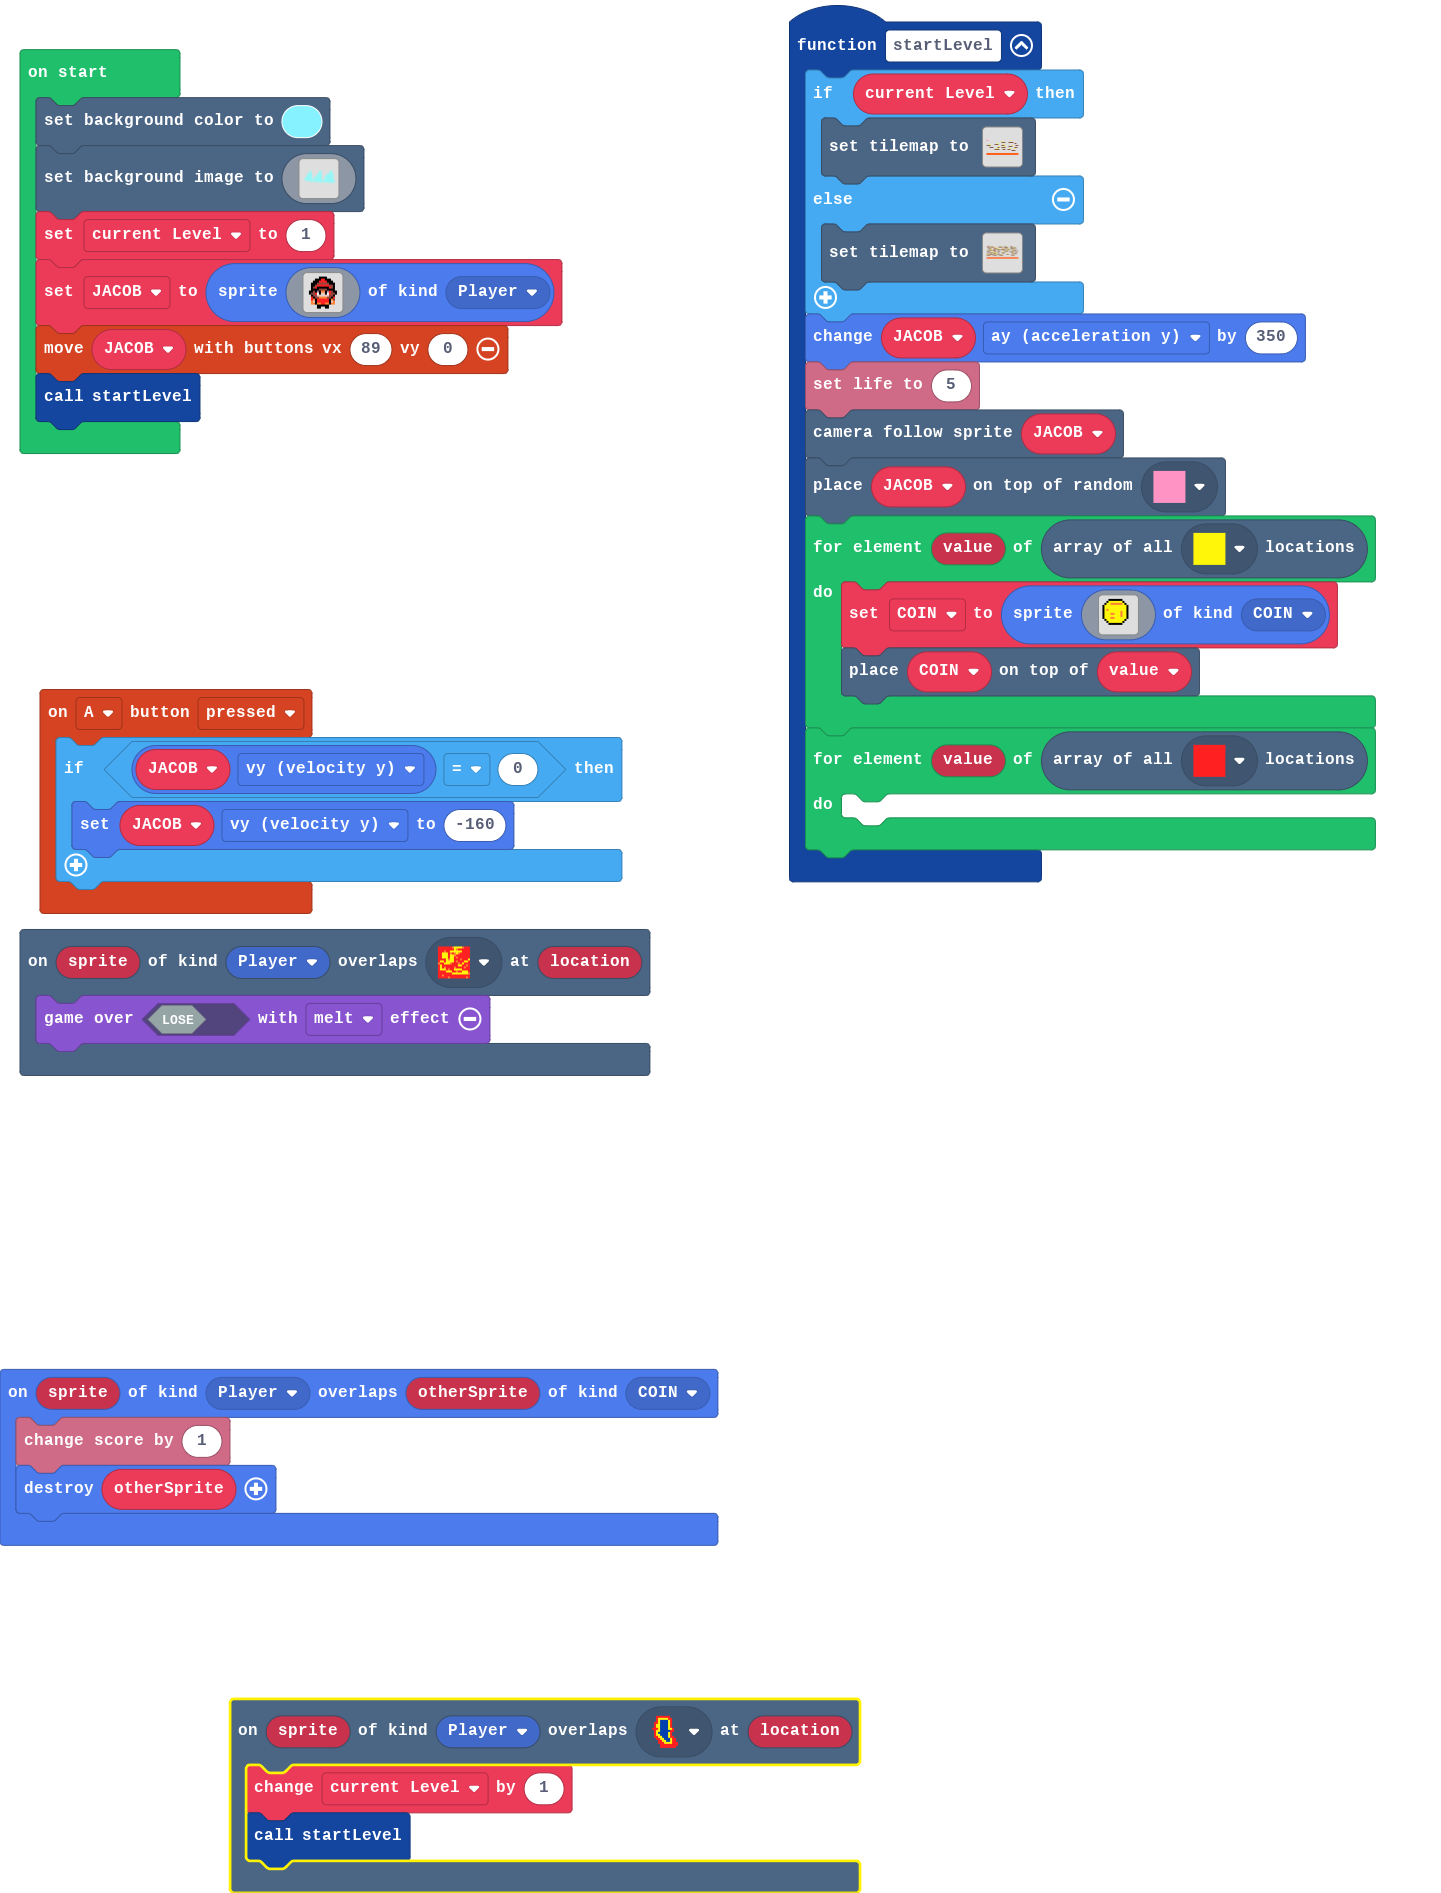
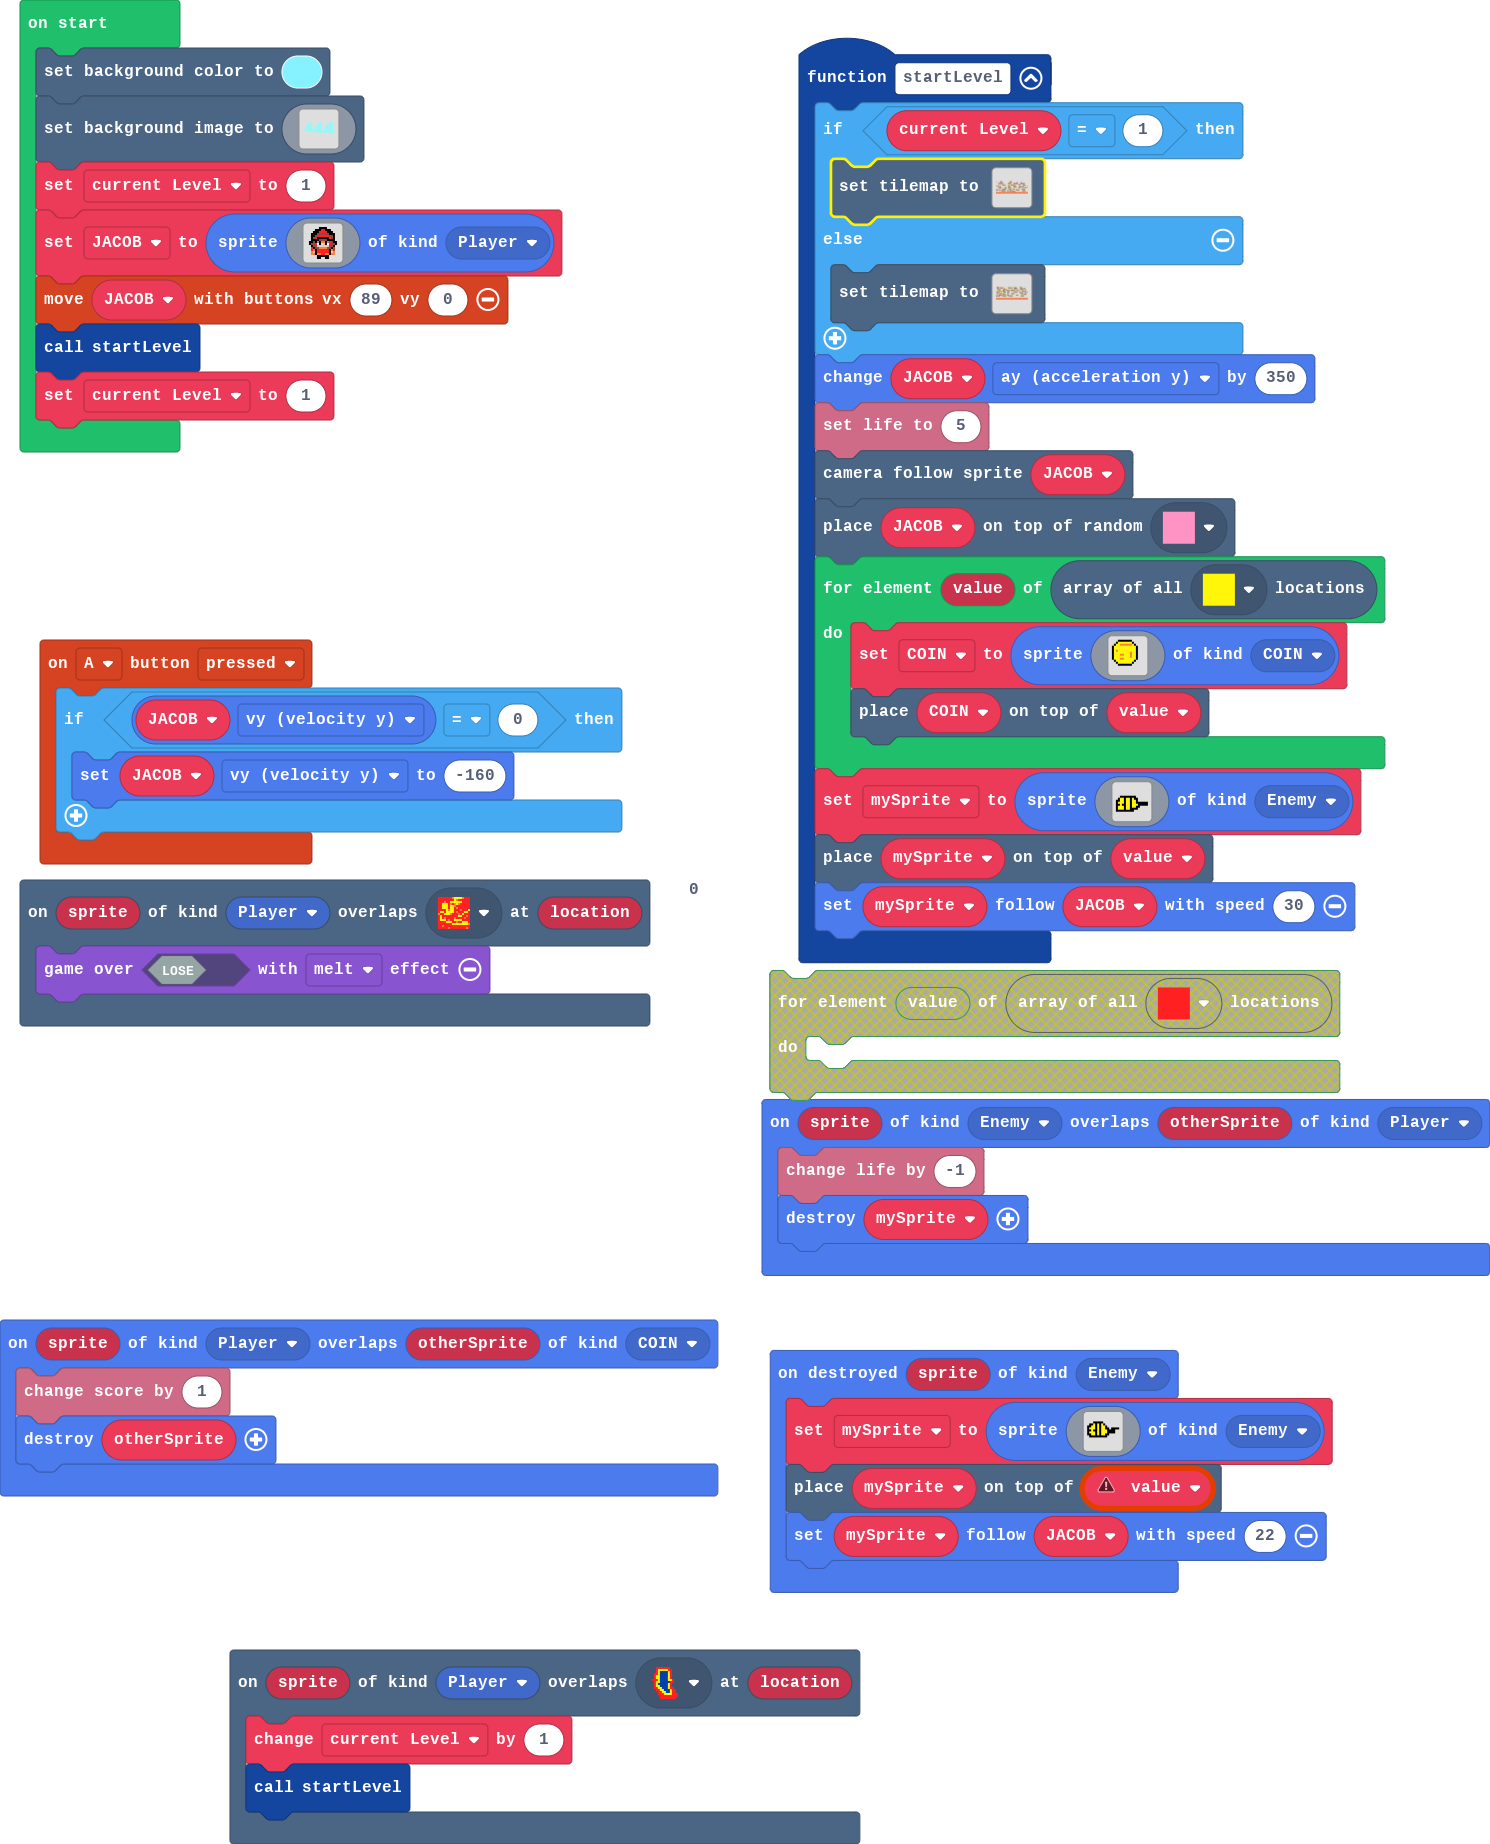
Update main.blocks, main.ts, tilemap.g.jres, tilemap.g.ts, images.g.jres, images.g.ts

diff --git a/tilemap.g.ts b/tilemap.g.ts
@@ -100,24 +100,24 @@ namespace myTiles {
 ........................................
 `, [myTiles.transparency16,myTiles.tile4,myTiles.tile6,myTiles.tile7,myTiles.tile5,myTiles.tile8], TileScale.Sixteen);
             case "level4":
-            case "level4":return tiles.createTilemap(hex`200010000000000000000000000000000000000000000000000000000000000000000000050500000000000000000000000000000000000000000000040000000000000000000000000000000000000000000004000000000000000000000000000000000000000000000000000000000000000101010100000002020202020000000000000000000000000000000004000000000000000000000000000000000202000000000004000000000101010100000000000400000000000000000000000000000101010100000000000000000000000101010000000000000000040000020206000000000000000000000000040000000000040000000101010100000000000000000002020202000000000202000001010101000000000000000000020202000000000000000000000004000000000000000000000000040000000004000000000000000000000001010101010000000101010000010101000000000000000000000000000000000000000000000000000000000000000000020202020000000000000000000000000000000000000000000000000000000000000000000000000000000000000000000000000000000000000000000000000000000000000003030303030303030303030303030303030303030303030303030303030303030303030303030303030303030303030303030303030303030303030303030303`, img`
-................................
-................................
-................................
-...............2222...22222.....
-................................
-........2222....................
-2222...........222..............
-......................2222......
-...2222....22..2222.........222.
-................................
-........22222...222..222........
-.........................2222...
-................................
-................................
-................................
-................................
-`, [myTiles.transparency16,myTiles.tile4,myTiles.tile1,myTiles.tile5,myTiles.tile7,myTiles.tile9,myTiles.tile6], TileScale.Sixteen);
+            case "level4":return tiles.createTilemap(hex`2800100000000000000000000000000000000000000004000000000000000000000000000000000000000000050500000001010100000000000000000002020200000000040000000000000000000000000000000000000000000000000000000000000400000000000000000000070000000001000004000000000000000001010101010100000000000001010101000000020202020200000000010101010100000000000000000000000000000004000000000000000000000000000000000202000000000000000400000000000400000000010101010000000000040001010101000000000000000000000002020200000001000101000000000000000000000001010100000000000700000400000202000000000000000000000000000007000000000000040000000000040000000101010100000000000001010100000000060000000202020200000000020200000101010100000000000000000002020200000000000202000000000000000000000000040000000000000000000000000400000000040000000000000400000000000000000000000001010101010000000101010000010101000000000000000001010101000000000101010002020000000000000000040000000000000000000002020202000000000000000000000000000000000000020202020200000202000101010100000000000000000000000001010101000000000000000000000000000000000000000000000000020202000000000000000000000000000000000303030303030303030303030303030303030303030303030303030303030303030303030303030303030303030303030303030303030303030303030303030303030303030303030303030303030303`, img`
+........................................
+.....222.........222....................
+...............................2........
+...222222......2222...22222....22222....
+............................22..........
+........2222.......2222...........222...
+2.22...........222...........22.........
+......................2222......222.....
+...2222....22..2222.........222.....22..
+........................................
+........22222...222..222........2222....
+222.22...................2222...........
+.......22222..22.2222............2222...
+.....................222................
+........................................
+........................................
+`, [myTiles.transparency16,myTiles.tile4,myTiles.tile1,myTiles.tile5,myTiles.tile7,myTiles.tile9,myTiles.tile6,myTiles.tile8], TileScale.Sixteen);
         }
         return null;
     })

diff --git a/main.ts b/main.ts
@@ -13,12 +13,38 @@ scene.onOverlapTile(SpriteKind.Player, assets.tile`portal`, function (sprite, lo
 scene.onOverlapTile(SpriteKind.Player, assets.tile`myTile3`, function (sprite, location) {
     game.over(false, effects.melt)
 })
+sprites.onOverlap(SpriteKind.Enemy, SpriteKind.Player, function (sprite, otherSprite) {
+    info.changeLifeBy(-1)
+    mySprite.destroy()
+})
 sprites.onOverlap(SpriteKind.Player, SpriteKind.COIN, function (sprite, otherSprite) {
     info.changeScoreBy(1)
     otherSprite.destroy()
 })
+sprites.onDestroyed(SpriteKind.Enemy, function (sprite) {
+    mySprite = sprites.create(img`
+        . . . . . . . . . . . . . . . . 
+        . . . . . . . . . . . . . . . . 
+        . . . . . . . . . . . . . . . . 
+        . . . f f f f f . . . . . . . . 
+        . f f 5 f 5 f 5 f . . . . . . . 
+        f f 5 5 f 5 f 5 5 f . . . . . . 
+        f 5 5 5 f 5 f 5 5 f f . f f f f 
+        f f 5 f f 5 f 5 5 5 f f f f . . 
+        f 5 5 5 f 5 f 5 5 5 f f f f . . 
+        f f 5 5 f 5 f 5 5 f f . . . . . 
+        . f f f f f f f f f . . . . . . 
+        . . . . . . . . . . . . . . . . 
+        . . . . . . . . . . . . . . . . 
+        . . . . . . . . . . . . . . . . 
+        . . . . . . . . . . . . . . . . 
+        . . . . . . . . . . . . . . . . 
+        `, SpriteKind.Enemy)
+    tiles.placeOnTile(mySprite, value)
+    mySprite.follow(JACOB, 22)
+})
 function startLevel () {
-    if (current_Level) {
+    if (current_Level == 1) {
         tiles.setTilemap(tilemap`level4`)
     } else {
         tiles.setTilemap(tilemap`level 2`)
@@ -48,11 +74,30 @@ function startLevel () {
             `, SpriteKind.COIN)
         tiles.placeOnTile(COIN, value)
     }
-    for (let value of tiles.getTilesByType(assets.tile`myTile5`)) {
-    	
-    }
+    mySprite = sprites.create(img`
+        . . . . . . . . . . . . . . . . 
+        . . . . . . . . . . . . . . . . 
+        . . . . . . . . . . . . . . . . 
+        . . . . . . . . . . . . . . . . 
+        . . . . . . . . . . . . . . . . 
+        . . f f f f f f f f . . . . . . 
+        . f 5 5 f 5 5 f 5 f f . . . . . 
+        f f 5 5 f 5 5 f 5 5 f . . . . . 
+        f 5 5 5 f 5 5 f 5 5 f f f f f f 
+        f f 5 f f 5 5 f 5 5 5 f f f f f 
+        f 5 5 5 f 5 5 f 5 5 f f . . . . 
+        f 5 5 5 f 5 5 f f f f . . . . . 
+        f f f f f f f f f . . . . . . . 
+        . . . . . . . . . . . . . . . . 
+        . . . . . . . . . . . . . . . . 
+        . . . . . . . . . . . . . . . . 
+        `, SpriteKind.Enemy)
+    tiles.placeOnTile(mySprite, value)
+    mySprite.follow(JACOB, 30)
 }
 let COIN: Sprite = null
+let value: tiles.Location = null
+let mySprite: Sprite = null
 let JACOB: Sprite = null
 let current_Level = 0
 scene.setBackgroundColor(9)
@@ -182,3 +227,4 @@ current_Level = 1
 JACOB = sprites.create(assets.image`JACOB`, SpriteKind.Player)
 controller.moveSprite(JACOB, 89, 0)
 startLevel()
+current_Level = 1

diff --git a/images.g.ts b/images.g.ts
@@ -22,6 +22,25 @@ namespace myImages {
 . . . . . f f f f f f . . . . . 
 . . . . . f f . . f f . . . . . 
 `;
+            case "+h[":
+            case "beeeeeeeeeee":return img`
+. . . . . . . . . . . . . . . . 
+. . . . . . . . . . . . . . . . 
+. . . . . . . . . . . . . . . . 
+. . . f f f f f . . . . . . . . 
+. f f 5 f 5 f 5 f . . . . . . . 
+f f 5 5 f 5 f 5 5 f . . . . . . 
+f 5 5 5 f 5 f 5 5 f f . f f f f 
+f f 5 f f 5 f 5 5 5 f f f f . . 
+f 5 5 5 f 5 f 5 5 5 f f f f . . 
+f f 5 5 f 5 f 5 5 f f . . . . . 
+. f f f f f f f f f . . . . . . 
+. . . . . . . . . . . . . . . . 
+. . . . . . . . . . . . . . . . 
+. . . . . . . . . . . . . . . . 
+. . . . . . . . . . . . . . . . 
+. . . . . . . . . . . . . . . . 
+`;
         }
         return null;
     })
